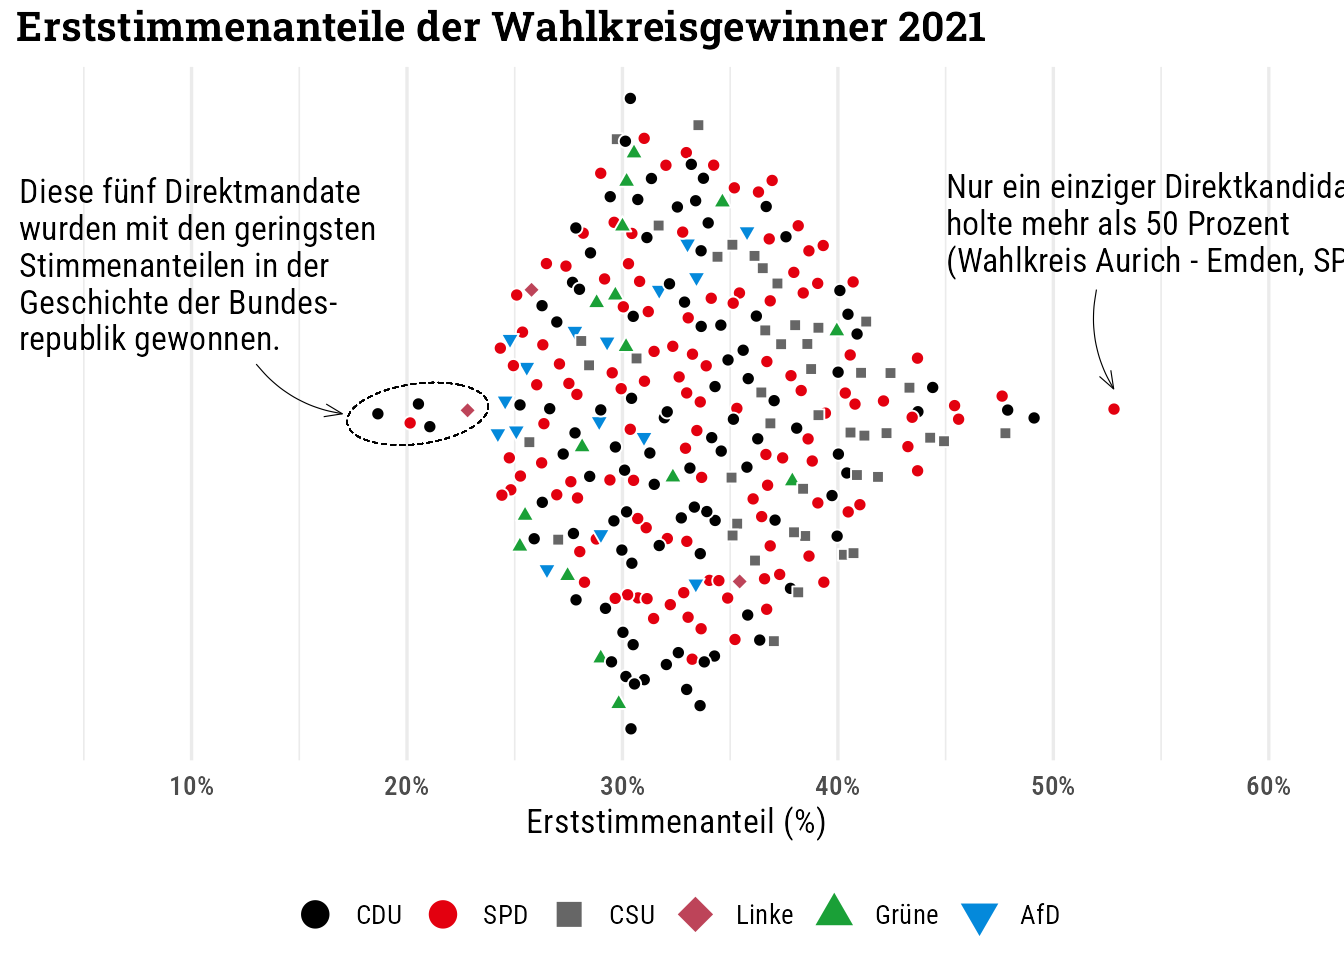
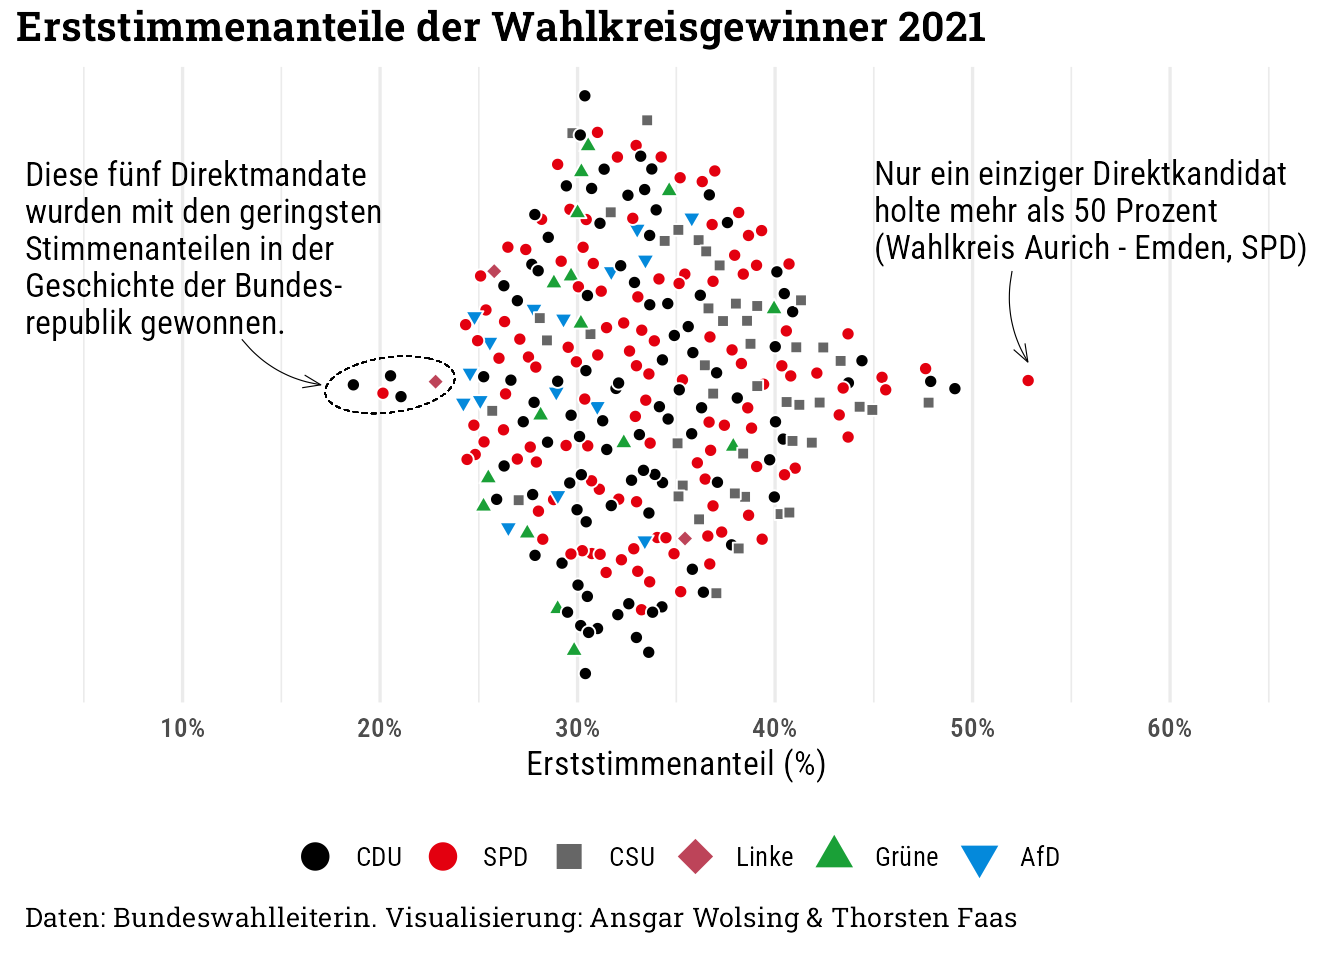
Anpassungen Labels

diff --git a/05-wahlrecht/05-wahlrecht.html b/05-wahlrecht/05-wahlrecht.html
@@ -611,7 +611,7 @@ pre > code.sourceCode > span > a:first-child::before { text-decoration: underlin
 <span id="cb16-3"><a href="#cb16-3" aria-hidden="true" tabindex="-1"></a>  <span class="fu">plot_annotation</span>(</span>
 <span id="cb16-4"><a href="#cb16-4" aria-hidden="true" tabindex="-1"></a>    <span class="at">title =</span> <span class="st">"Erststimmenanteile der Wahlkreisgewinner"</span>,</span>
 <span id="cb16-5"><a href="#cb16-5" aria-hidden="true" tabindex="-1"></a>    <span class="at">caption =</span> <span class="st">"Daten: Bundeswahlleiterin.</span></span>
-<span id="cb16-6"><a href="#cb16-6" aria-hidden="true" tabindex="-1"></a><span class="st">    Visualisierung: Ansgar Wolsing &amp; Thorsten Faas"</span>,)</span></code><button title="Copy to Clipboard" class="code-copy-button"><i class="bi"></i></button></pre></div>
+<span id="cb16-6"><a href="#cb16-6" aria-hidden="true" tabindex="-1"></a><span class="st">    Visualisierung: Ansgar Wolsing &amp; Thorsten Faas"</span>)</span></code><button title="Copy to Clipboard" class="code-copy-button"><i class="bi"></i></button></pre></div>
 </details>
 <div class="cell-output-display">
 <div>
@@ -714,24 +714,26 @@ pre > code.sourceCode > span > a:first-child::before { text-decoration: underlin
 <span id="cb18-34"><a href="#cb18-34" aria-hidden="true" tabindex="-1"></a>  <span class="fu">scale_fill_manual</span>(<span class="at">values =</span> <span class="fu">c</span>(<span class="st">"CSU"</span> <span class="ot">=</span> <span class="st">"grey40"</span>, party_pal)) <span class="sc">+</span></span>
 <span id="cb18-35"><a href="#cb18-35" aria-hidden="true" tabindex="-1"></a>  <span class="fu">scale_shape_manual</span>(<span class="at">values =</span> <span class="fu">c</span>(<span class="st">"CDU"</span> <span class="ot">=</span> <span class="dv">21</span>, <span class="st">"SPD"</span> <span class="ot">=</span> <span class="dv">21</span>,</span>
 <span id="cb18-36"><a href="#cb18-36" aria-hidden="true" tabindex="-1"></a>                                <span class="st">"CSU"</span> <span class="ot">=</span> <span class="dv">22</span>, <span class="st">"Linke"</span> <span class="ot">=</span> <span class="dv">23</span>, <span class="st">"Grüne"</span> <span class="ot">=</span> <span class="dv">24</span>, <span class="st">"AfD"</span> <span class="ot">=</span> <span class="dv">25</span>)) <span class="sc">+</span></span>
-<span id="cb18-37"><a href="#cb18-37" aria-hidden="true" tabindex="-1"></a>  <span class="fu">coord_cartesian</span>(<span class="at">xlim =</span> <span class="fu">c</span>(<span class="fl">0.05</span>, <span class="fl">0.6</span>), <span class="at">clip =</span> <span class="st">"off"</span>) <span class="sc">+</span></span>
+<span id="cb18-37"><a href="#cb18-37" aria-hidden="true" tabindex="-1"></a>  <span class="fu">coord_cartesian</span>(<span class="at">xlim =</span> <span class="fu">c</span>(<span class="fl">0.05</span>, <span class="fl">0.65</span>), <span class="at">clip =</span> <span class="st">"off"</span>) <span class="sc">+</span></span>
 <span id="cb18-38"><a href="#cb18-38" aria-hidden="true" tabindex="-1"></a>  <span class="fu">guides</span>(</span>
 <span id="cb18-39"><a href="#cb18-39" aria-hidden="true" tabindex="-1"></a>    <span class="at">fill =</span> <span class="fu">guide_legend</span>(<span class="at">nrow =</span> <span class="dv">1</span>, <span class="at">override.aes =</span> <span class="fu">list</span>(<span class="at">size =</span> <span class="dv">5</span>)),</span>
 <span id="cb18-40"><a href="#cb18-40" aria-hidden="true" tabindex="-1"></a>    <span class="at">shape =</span> <span class="fu">guide_legend</span>(<span class="at">nrow =</span> <span class="dv">1</span>, <span class="at">override.aes =</span> <span class="fu">list</span>(<span class="at">size =</span> <span class="dv">5</span>))</span>
 <span id="cb18-41"><a href="#cb18-41" aria-hidden="true" tabindex="-1"></a>  ) <span class="sc">+</span></span>
 <span id="cb18-42"><a href="#cb18-42" aria-hidden="true" tabindex="-1"></a>  <span class="fu">labs</span>(</span>
 <span id="cb18-43"><a href="#cb18-43" aria-hidden="true" tabindex="-1"></a>    <span class="at">title =</span> <span class="st">"Erststimmenanteile der Wahlkreisgewinner 2021"</span>,</span>
-<span id="cb18-44"><a href="#cb18-44" aria-hidden="true" tabindex="-1"></a>    <span class="at">x =</span> <span class="st">"Erststimmenanteil (%)"</span>,</span>
-<span id="cb18-45"><a href="#cb18-45" aria-hidden="true" tabindex="-1"></a>    <span class="at">fill =</span> <span class="cn">NULL</span>, <span class="at">shape =</span> <span class="cn">NULL</span></span>
-<span id="cb18-46"><a href="#cb18-46" aria-hidden="true" tabindex="-1"></a>  ) <span class="sc">+</span></span>
-<span id="cb18-47"><a href="#cb18-47" aria-hidden="true" tabindex="-1"></a>  <span class="fu">theme</span>(</span>
-<span id="cb18-48"><a href="#cb18-48" aria-hidden="true" tabindex="-1"></a>    <span class="at">legend.position =</span> <span class="st">"bottom"</span>,</span>
-<span id="cb18-49"><a href="#cb18-49" aria-hidden="true" tabindex="-1"></a>    <span class="at">axis.text.x =</span> <span class="fu">element_text</span>(<span class="at">family =</span> <span class="st">"Roboto Condensed SemiBold"</span>),</span>
-<span id="cb18-50"><a href="#cb18-50" aria-hidden="true" tabindex="-1"></a>    <span class="at">axis.text.y =</span> <span class="fu">element_blank</span>(),</span>
-<span id="cb18-51"><a href="#cb18-51" aria-hidden="true" tabindex="-1"></a>    <span class="at">axis.title.y =</span> <span class="fu">element_blank</span>(),</span>
-<span id="cb18-52"><a href="#cb18-52" aria-hidden="true" tabindex="-1"></a>    <span class="at">panel.grid.major.y =</span> <span class="fu">element_blank</span>(),</span>
-<span id="cb18-53"><a href="#cb18-53" aria-hidden="true" tabindex="-1"></a>    <span class="at">panel.grid.minor.y =</span> <span class="fu">element_blank</span>()</span>
-<span id="cb18-54"><a href="#cb18-54" aria-hidden="true" tabindex="-1"></a>  ) </span></code><button title="Copy to Clipboard" class="code-copy-button"><i class="bi"></i></button></pre></div>
+<span id="cb18-44"><a href="#cb18-44" aria-hidden="true" tabindex="-1"></a>    <span class="at">caption =</span> <span class="st">"Daten: Bundeswahlleiterin.</span></span>
+<span id="cb18-45"><a href="#cb18-45" aria-hidden="true" tabindex="-1"></a><span class="st">    Visualisierung: Ansgar Wolsing &amp; Thorsten Faas"</span>,</span>
+<span id="cb18-46"><a href="#cb18-46" aria-hidden="true" tabindex="-1"></a>    <span class="at">x =</span> <span class="st">"Erststimmenanteil (%)"</span>,</span>
+<span id="cb18-47"><a href="#cb18-47" aria-hidden="true" tabindex="-1"></a>    <span class="at">fill =</span> <span class="cn">NULL</span>, <span class="at">shape =</span> <span class="cn">NULL</span></span>
+<span id="cb18-48"><a href="#cb18-48" aria-hidden="true" tabindex="-1"></a>  ) <span class="sc">+</span></span>
+<span id="cb18-49"><a href="#cb18-49" aria-hidden="true" tabindex="-1"></a>  <span class="fu">theme</span>(</span>
+<span id="cb18-50"><a href="#cb18-50" aria-hidden="true" tabindex="-1"></a>    <span class="at">legend.position =</span> <span class="st">"bottom"</span>,</span>
+<span id="cb18-51"><a href="#cb18-51" aria-hidden="true" tabindex="-1"></a>    <span class="at">axis.text.x =</span> <span class="fu">element_text</span>(<span class="at">family =</span> <span class="st">"Roboto Condensed SemiBold"</span>),</span>
+<span id="cb18-52"><a href="#cb18-52" aria-hidden="true" tabindex="-1"></a>    <span class="at">axis.text.y =</span> <span class="fu">element_blank</span>(),</span>
+<span id="cb18-53"><a href="#cb18-53" aria-hidden="true" tabindex="-1"></a>    <span class="at">axis.title.y =</span> <span class="fu">element_blank</span>(),</span>
+<span id="cb18-54"><a href="#cb18-54" aria-hidden="true" tabindex="-1"></a>    <span class="at">panel.grid.major.y =</span> <span class="fu">element_blank</span>(),</span>
+<span id="cb18-55"><a href="#cb18-55" aria-hidden="true" tabindex="-1"></a>    <span class="at">panel.grid.minor.y =</span> <span class="fu">element_blank</span>()</span>
+<span id="cb18-56"><a href="#cb18-56" aria-hidden="true" tabindex="-1"></a>  ) </span></code><button title="Copy to Clipboard" class="code-copy-button"><i class="bi"></i></button></pre></div>
 </details>
 <div class="cell-output-display">
 <div>
@@ -924,7 +926,7 @@ pre > code.sourceCode > span > a:first-child::before { text-decoration: underlin
 <span id="cb22-13"><a href="#cb22-13" aria-hidden="true" tabindex="-1"></a>    <span class="at">x =</span> <span class="fu">c</span>(<span class="dv">1968</span>, <span class="dv">2010</span>),</span>
 <span id="cb22-14"><a href="#cb22-14" aria-hidden="true" tabindex="-1"></a>    <span class="at">y =</span> <span class="fu">c</span>(<span class="fl">0.53</span>, <span class="fl">0.5</span>),</span>
 <span id="cb22-15"><a href="#cb22-15" aria-hidden="true" tabindex="-1"></a>    <span class="at">label =</span> <span class="fu">c</span>(<span class="st">"1972: mehr als 80 % der</span><span class="sc">\n</span><span class="st">Wahlkreise mit absoluter</span><span class="sc">\n</span><span class="st">Erststimmenmehrheit</span><span class="sc">\n</span><span class="st">gewonnen"</span>,</span>
-<span id="cb22-16"><a href="#cb22-16" aria-hidden="true" tabindex="-1"></a>              <span class="st">"2021: ein einziger</span><span class="sc">\n</span><span class="st">Wahlkreis (Emden -</span><span class="sc">\n</span><span class="st">Aurich, SPD)"</span>),</span>
+<span id="cb22-16"><a href="#cb22-16" aria-hidden="true" tabindex="-1"></a>              <span class="st">"2021: ein einziger</span><span class="sc">\n</span><span class="st">Wahlkreis (Aurich -</span><span class="sc">\n</span><span class="st">Emden, SPD)"</span>),</span>
 <span id="cb22-17"><a href="#cb22-17" aria-hidden="true" tabindex="-1"></a>    <span class="at">family =</span> <span class="st">"Roboto Condensed"</span>, <span class="at">hjust =</span> <span class="dv">0</span>, <span class="at">size =</span> <span class="dv">4</span>, <span class="at">lineheight =</span> <span class="fl">0.9</span>,</span>
 <span id="cb22-18"><a href="#cb22-18" aria-hidden="true" tabindex="-1"></a>    <span class="at">vjust =</span> <span class="dv">1</span></span>
 <span id="cb22-19"><a href="#cb22-19" aria-hidden="true" tabindex="-1"></a>  ) <span class="sc">+</span></span>
